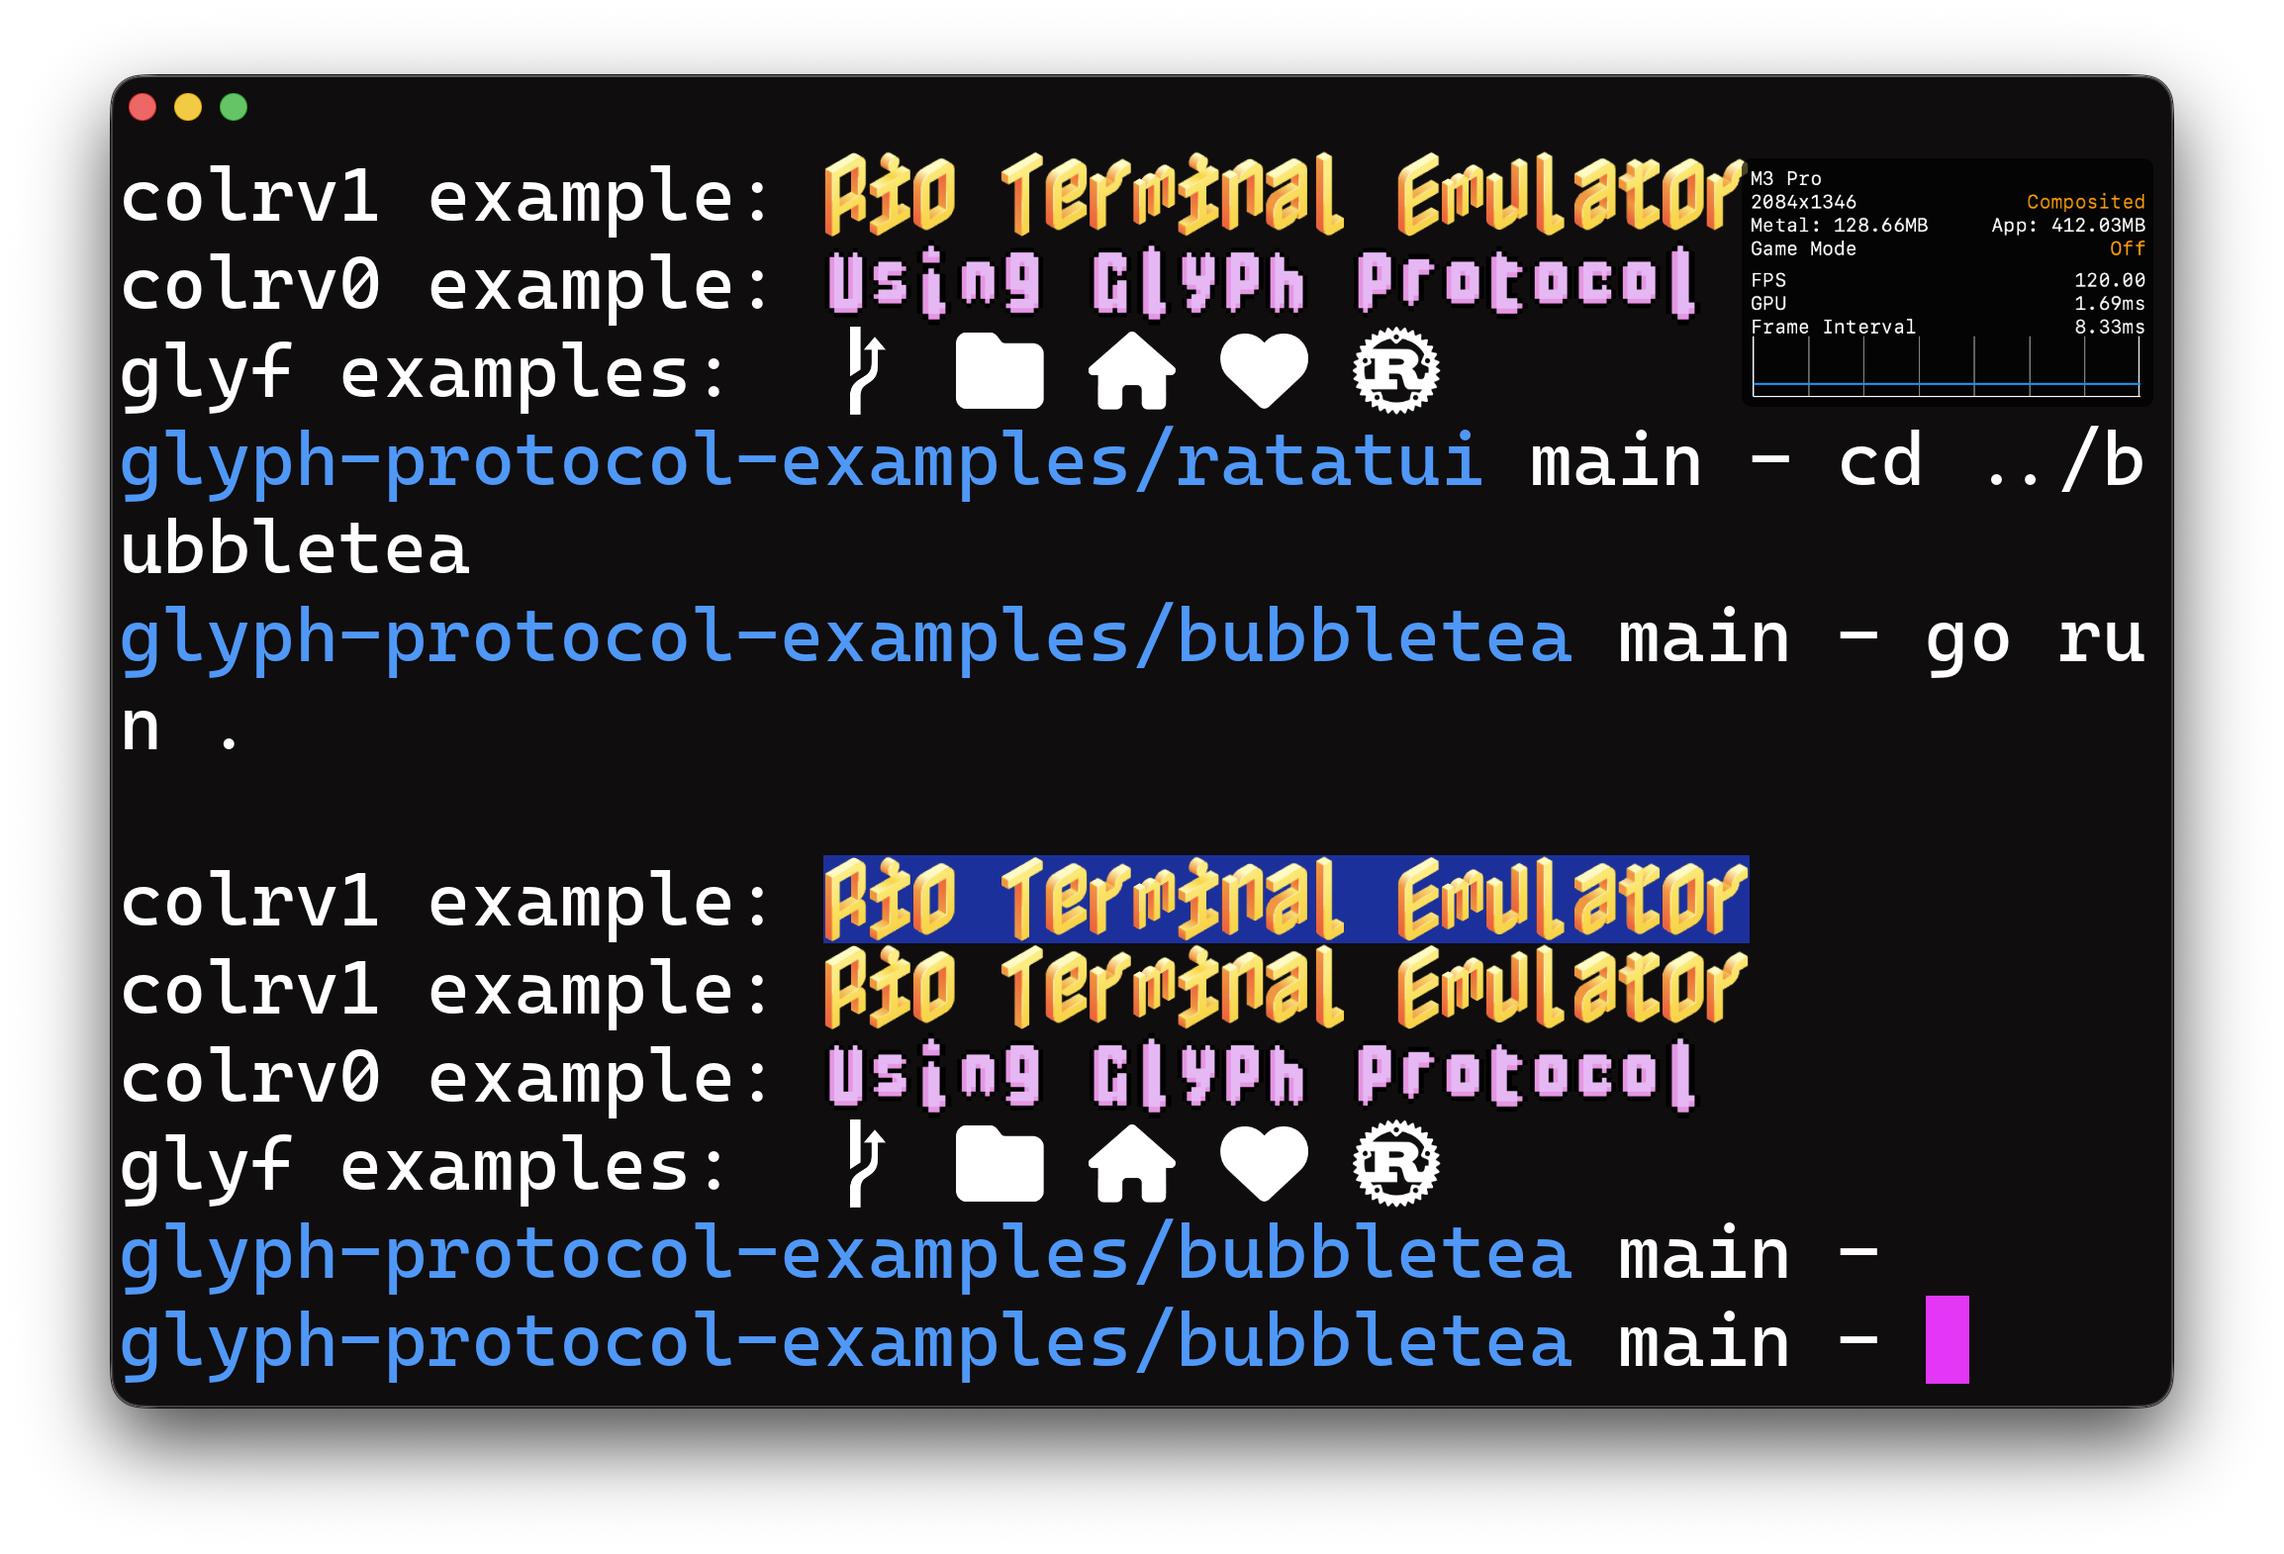
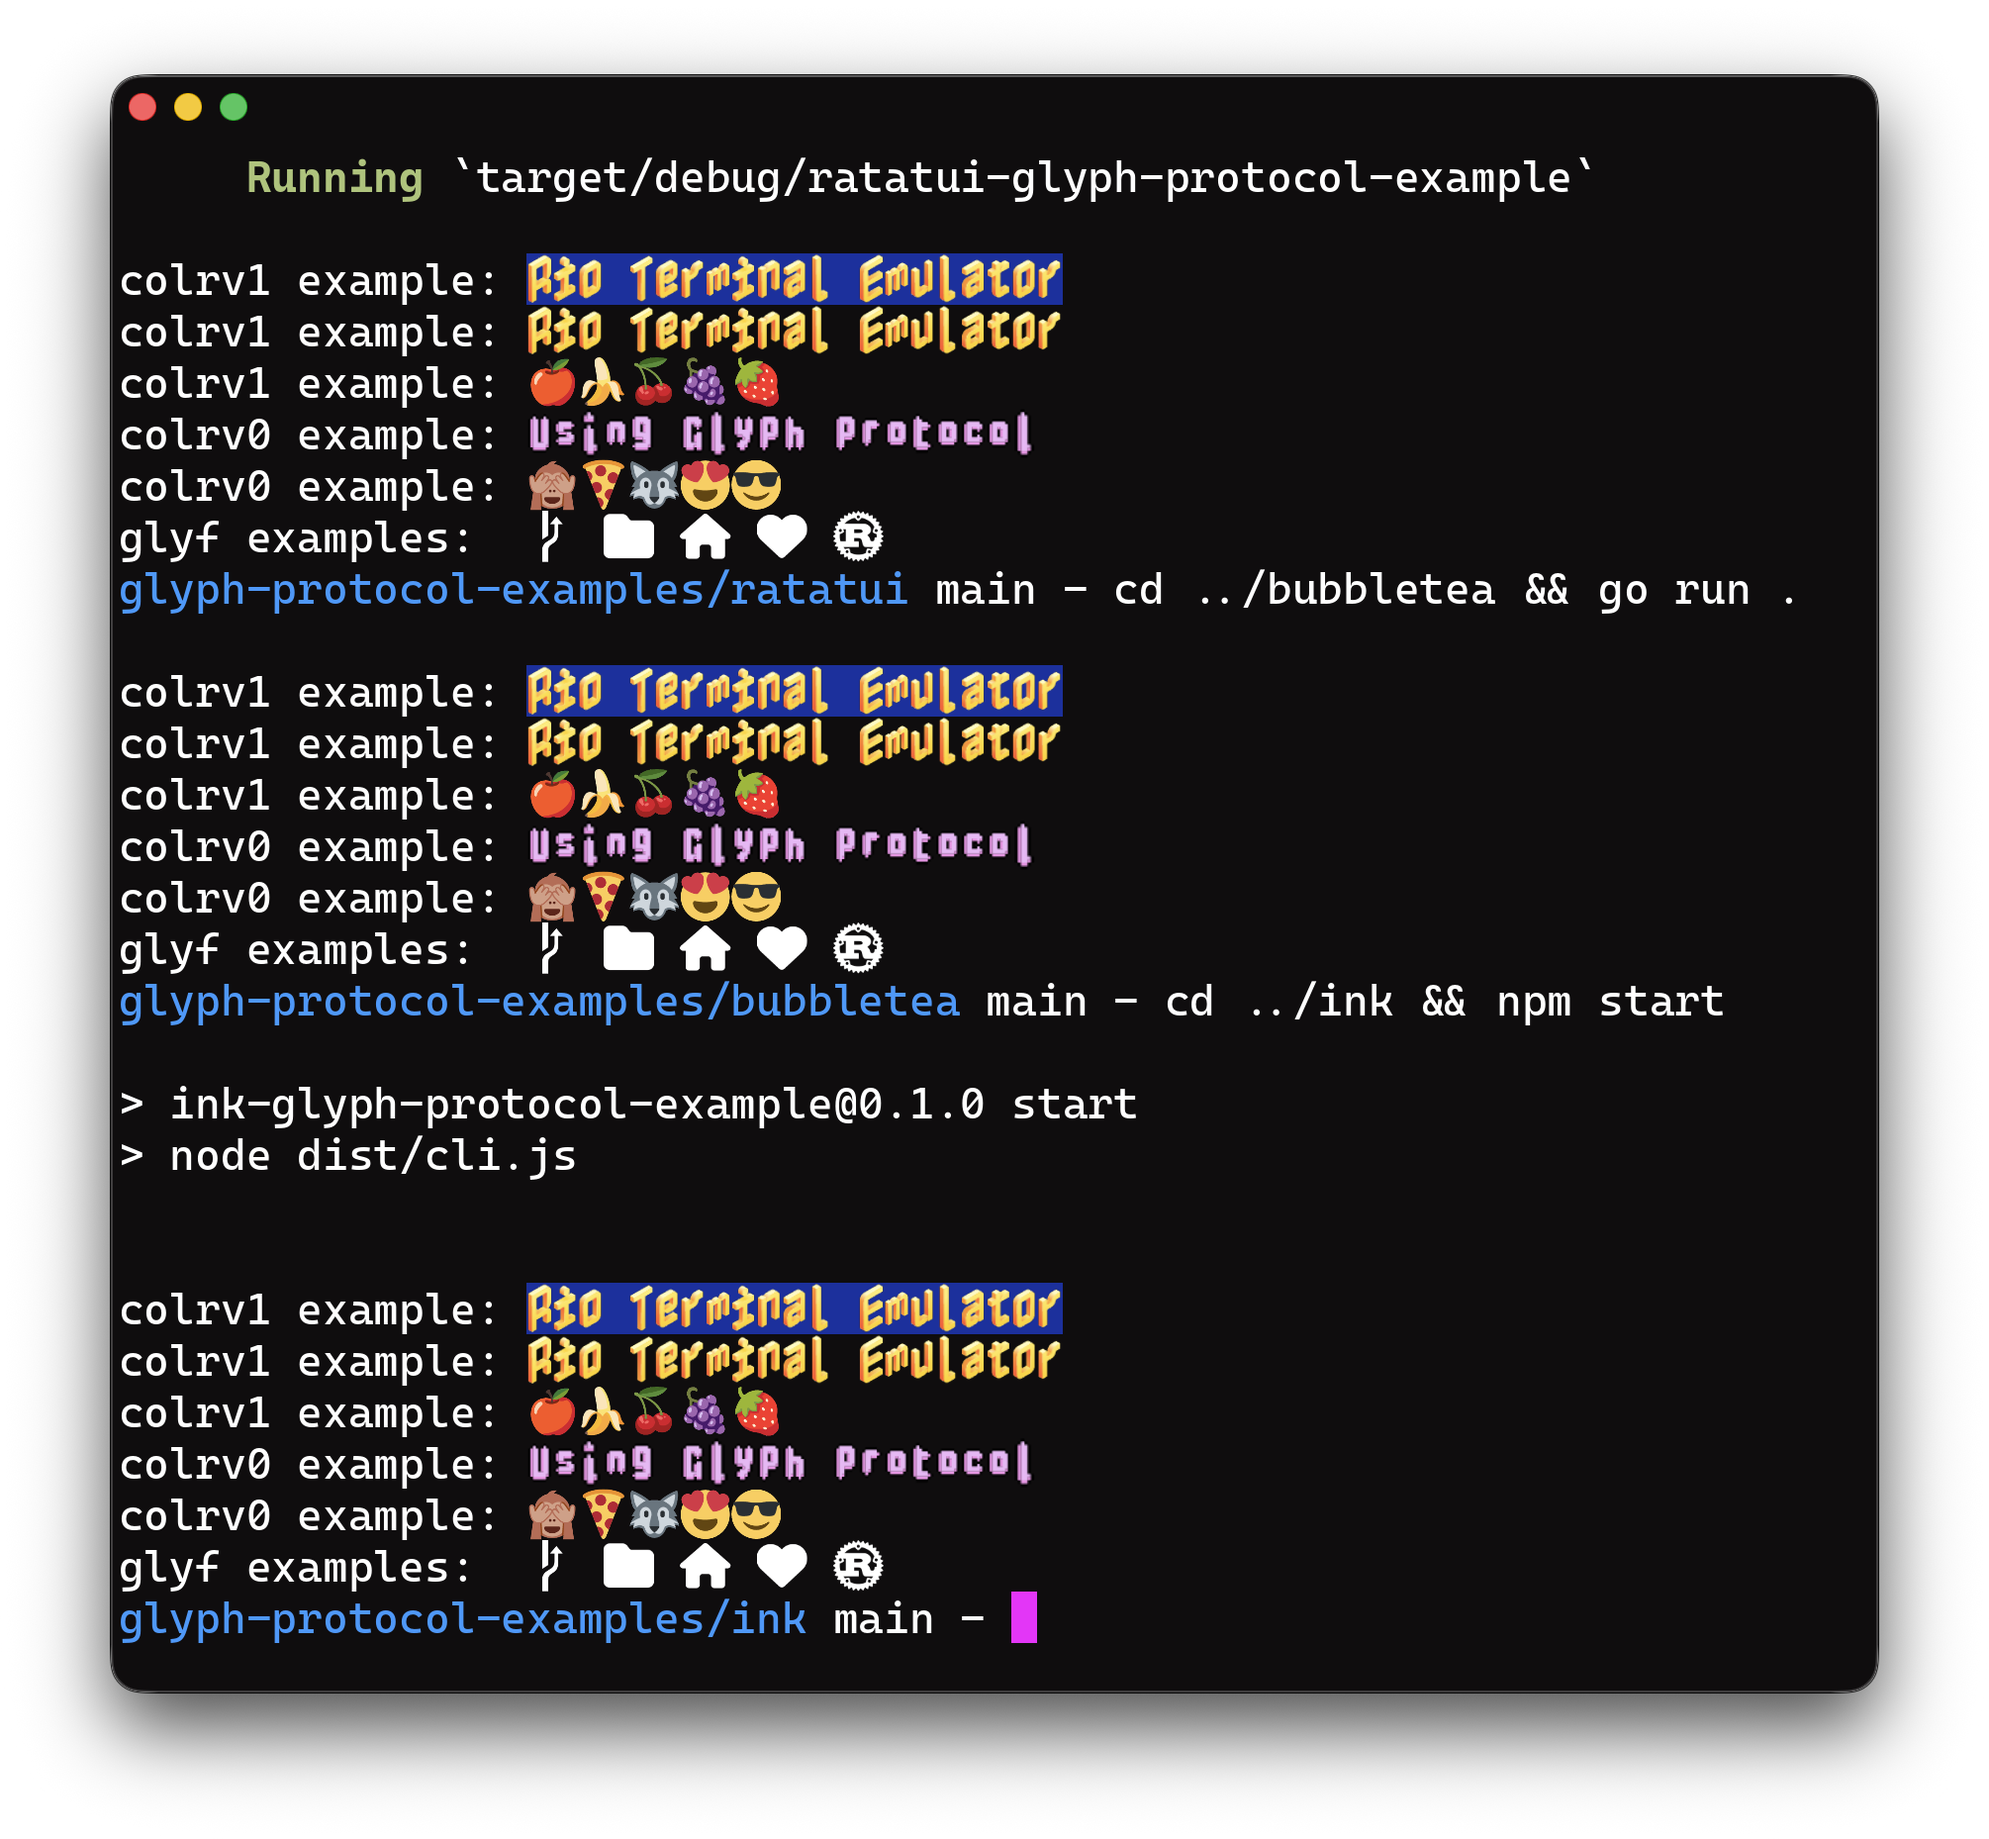
new post

Changed region(s): [[0.0308, 0.0312, 0.9562, 0.9675], [0.8637, 0.2185, 0.8945, 0.2497]]

diff --git a/_posts/2026-04-20-adding-color-glyphs-to-glyph-protocol.md b/_posts/2026-04-20-adding-color-glyphs-to-glyph-protocol.md
@@ -1,0 +1,105 @@
+---
+layout: post
+title: "Adding color glyphs to Glyph Protocol"
+language: 'en'
+description: "Glyph Protocol shipped with a single payload format — monochrome OpenType `glyf` outlines rendered in the current foreground colour. This post covers adding two more: `colrv0` for layered flat-colour icons, and `colrv1` for full paint graphs with gradients — both by reusing OpenType COLR directly as the wire format."
+image: assets/images/posts/glyph-protocol-color-banner.png
+---
+
+A few days after [introducing Glyph Protocol](/introducing-glyph-protocol-for-terminals/), the first serious feature request landed: colour.
+
+The initial protocol only had one payload format, `fmt=glyf` — a single OpenType simple-glyph outline, rendered in the current foreground colour. Good enough for Nerd-Font-style monochrome icons, fine for a `` or a ``. But the whole class of modern iconography — a red heart, a green status dot, a multi-color brand logo — was out of reach. Applications that wanted colour would either have to ship a raster bitmap (killing the resolution-independence property that made vector attractive in the first place) or wait for a v2.
+
+So this is v2.
+
+### Two formats, not one
+
+Colour glyphs exist in a well-travelled design space. OpenType already has it, in two flavours:
+
+- **COLR v0** is the simple one: a base glyph references a list of layer glyphs and per-layer palette indices. Each layer is a flat colour. Layers composite front-to-back. No transforms, no gradients, no blend modes. Powers most Windows 10 emoji and is about ten years old at this point.
+- **COLR v1** is the ambitious one: a full paint graph. Nodes are linear, radial, and sweep gradients; affine transforms; composite modes; layer groups; references to other glyphs. Powers the [Google Noto emoji](https://fonts.google.com/noto/specimen/Noto+Color+Emoji+SVG) and Chrome's [COLRv1 implementation](https://developer.chrome.com/blog/colrv1-fonts).
+
+<figure class="post-figure">
+  <img src="/assets/images/posts/glyph-protocol-color-formats.png" alt="Rio terminal running the same Glyph Protocol example three times: first via a Rust ratatui binary, then a Go bubbletea program, then a Node ink CLI. Each prints identical colrv1 titles, fruit emoji, colrv0 titles, face/animal emoji, and monochrome glyf icons — demonstrating consistent rendering across the three TUI frameworks." />
+  <figcaption>The same payload rendered three times — from <a href="https://ratatui.rs/">ratatui</a> (Rust), <a href="https://github.com/charmbracelet/bubbletea">bubbletea</a> (Go), and <a href="https://github.com/vadimdemedes/ink">ink</a> (Node). The protocol is language- and framework-agnostic; once the terminal accepts the registration, every TUI on top of it renders the same glyph.</figcaption>
+</figure>
+
+The natural question: should Glyph Protocol add both, or just one?
+
+Both. They don't compete — they're tiered. A terminal that only implements the simple case gets a useful subset of colour. A terminal that goes all-in gets Apple-quality emoji. Applications advertise the format they're shipping and the terminal advertises what it supports via the `s` verb's `fmt` bitfield; the two negotiate without a round-trip per glyph.
+
+### Reuse, don't reinvent
+
+The obvious failure mode here would be to design a custom "Glyph Protocol colour format" — a bespoke TLV stream with layer records, gradient stops, and so on. I started writing one and stopped about a screen in.
+
+The observation is the same one that motivated using `glyf` for monochrome in the first place: every terminal that renders OpenType already has a parser for this. [`ttf-parser`](https://github.com/RazrFalcon/ttf-parser)'s `colr::Table::parse(cpal, colr)` accepts a standalone COLR + CPAL blob with no surrounding font context required. [`skrifa`](https://github.com/googlefonts/fontations) (the parser behind Chrome's COLRv1 renderer) does the same. Both walk v0 and v1 through a shared `Painter`/`ColorPainter` callback trait. Adopting OpenType binary means the protocol gets a paint-graph parser and walker for free, in every mainstream language.
+
+The only thing OpenType `COLR` can't do on its own is *stand alone*. A COLR table references glyph outlines by `GlyphId` in the font's `glyf` table — but our protocol ships one glyph at a time, not a full font. So Glyph Protocol wraps the COLR + CPAL tables in a tiny container that also carries the outlines each layer references:
+
+```
+u16     n_glyphs              # 1..=1024
+repeat n_glyphs:
+  u16   glyf_len
+  glyf_len bytes              # simple-glyph, same subset as fmt=glyf
+u16     colr_len              # OpenType COLR table (v0 or v1)
+colr_len bytes
+u16     cpal_len              # OpenType CPAL table (may be 0 for v1)
+cpal_len bytes
+```
+
+`GlyphId` values in the COLR table index into the outline array. `paletteIndex` values in layer records index into the CPAL colour records. `paletteIndex = 0xFFFF` means "use the current foreground colour", per the OpenType spec. That's the whole contract — the rest is COLR's job.
+
+The container adds roughly 250 bytes of overhead for the length fields. For a five-layer coloured icon that's a negligible fraction of the payload.
+
+### Negotiating support
+
+Remember the `s` (support) verb from the earlier post:
+
+```
+ESC _ 25a1 ; s ESC \
+```
+
+The terminal replies with a bitfield saying which payload formats it accepts:
+
+| Value | Format | Meaning |
+|-------|--------|---------|
+| `1`   | `glyf` | Monochrome simple-glyph. Required in every conformant implementation. |
+| `2`   | `colrv0` | Layered flat-colour (OpenType COLR v0). |
+| `4`   | `colrv1` | Full paint graph (OpenType COLR v1). |
+
+A terminal reporting `fmt=7` supports all three. A terminal reporting `fmt=3` accepts monochrome and layered flat-colour but will reject a `colrv1` registration — so the client either packages a `colrv0` alternative or falls back to a monochrome outline. A terminal reporting `fmt=1` is the monochrome-only baseline. No negotiation round trip per glyph; one `s` at startup tells the application everything it needs to know.
+
+### Registering a colour glyph
+
+Same `r` verb as before, but the `fmt` parameter selects the payload format:
+
+```
+ESC _ 25a1 ; r ; cp=E0A0 ; fmt=colrv0 ; upm=1000 ; <base64-container> ESC \
+```
+
+Everything else — the PUA restriction, the 1024-slot glossary, the FIFO eviction rule, the per-session isolation — is unchanged. One codepoint consumes one slot regardless of payload: a `fmt=colrv1` registration carrying 500 inner outlines still eats exactly one of the 1024 glossary slots. Colour glyphs are just another payload, not a second protocol.
+
+### What's intentionally left out
+
+- **No sfbx/sbix/CBDT bitmap tables.** Those are raster. Terminal cell sizes vary wildly (12 px in tmux on a laptop, 32 px on a HiDPI desktop) and a bitmap optimised for one size is wrong at the other. Every format Glyph Protocol accepts is vector.
+- **No `SVG ` table.** COLRv1 covers the same expressiveness as SVG's paint primitives without pulling a second XML parser into every terminal. The one thing SVG-in-OpenType has that COLRv1 doesn't — raw SVG clipping masks — is a feature I'm willing to give up for a parser budget of zero additional bytes.
+- **No animated glyphs.** A pulsing cursor is a fine idea; making it part of the terminal's font stack is not.
+
+### Authoring colour payloads
+
+Most applications will not hand-craft COLR tables. Two tools make the pipeline straightforward:
+
+- **[`nanoemoji`](https://github.com/googlefonts/nanoemoji)** — Google's SVG → COLRv1 compiler, originally built for Noto emoji. Feed it a directory of SVGs, get a `.ttf` back. Slice the `COLR`, `CPAL`, and referenced `glyf` outlines out of that TTF with `fontTools`, pack them into Glyph Protocol's container, and register. A five-layer icon lands around 600–900 bytes on the wire, base64 overhead included.
+- **[`fontTools`](https://fonttools.readthedocs.io/)** — for pulling COLR data out of existing colour fonts (Noto Color Emoji, Fluent Emoji, Twemoji-via-COLR). Useful for "I want Twemoji's red heart at U+F004 for the duration of this TUI session."
+
+Rio's reference implementation ships `svg2colr`, a tiny wrapper around `nanoemoji` + `fontTools` that collapses the whole flow to `svg2colr icon.svg > payload.b64`.
+
+### Status
+
+The wire format, parser, registry storage, and support-bitfield advertisement are live on Rio's main branch and will ship in v0.3.12. The rasteriser's colour compositing path is the last piece — until it lands, colour registrations on Rio render as the first carried outline in the current foreground colour, which is ugly but honest. The protocol layer is fully in place, so applications writing against `fmt=colrv0` / `fmt=colrv1` today will see full colour output the moment the renderer catches up.
+
+And if you're implementing Glyph Protocol in a different terminal, adding colour support now is mostly linker work: pull `ttf-parser` or `skrifa` in, implement a `Painter`/`ColorPainter` that composites into your existing glyph atlas, flip bits 1 and 2 of your `s` reply. The hard design work — wire format, security model, capacity bounds — is done.
+
+--
+
+The more general principle: a terminal protocol doesn't have to invent a new binary format to ship new features. Colour glyphs, emoji, icons — the graphics community worked through the hard questions a decade ago. We just ride the bus.

diff --git a/_posts/2026-04-17-introducing-glyph-protocol-for-terminals.md b/_posts/2026-04-17-introducing-glyph-protocol-for-terminals.md
@@ -165,7 +165,7 @@ Simple glyphs are the subset of `glyf` that any `ttf-parser`-style library alrea
 
 **Authoring.** Most application authors will not hand-write `glyf` bytes. They will start from SVG (what their designer hands them, what every icon library ships) and convert it at build time. [`fonttools`](https://fonttools.readthedocs.io/) already does this via its `ttx`/`pens` interface, and I will ship a small `svg2glyf` helper alongside Rio's reference implementation so the conversion is a one-liner. Runtime registration is then as simple as loading the bytes and sending them.
 
-**Lifetime and capacity.** Each terminal session carries a *glossary* of at most 256 simultaneous registrations, keyed by codepoint anywhere in the three PUA ranges. Registrations live for the duration of the session. If an application registers a 257th glyph, the terminal evicts the oldest registration in FIFO order — there is no "glossary full" error to handle. Applications that cannot tolerate silent eviction should query their codepoint before emitting.
+**Lifetime and capacity.** Each terminal session carries a *glossary* of at most 1024 simultaneous registrations, keyed by codepoint anywhere in the three PUA ranges. Registrations live for the duration of the session. If an application registers a 1025th glyph, the terminal evicts the oldest registration in FIFO order — there is no "glossary full" error to handle. Applications that cannot tolerate silent eviction should query their codepoint before emitting.
 
 #### A worked example: an icon in empty PUA
 
